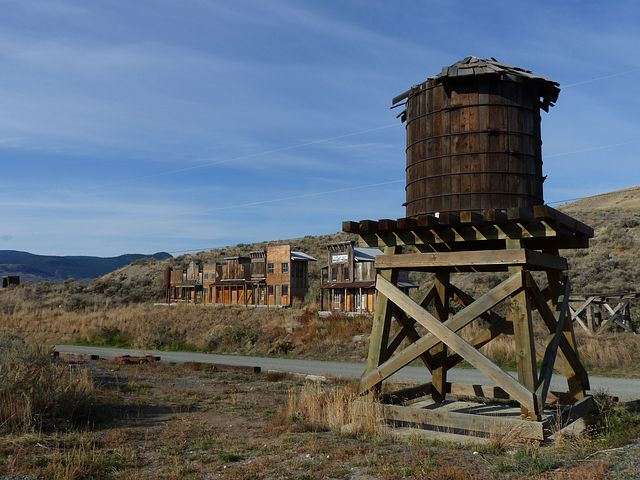
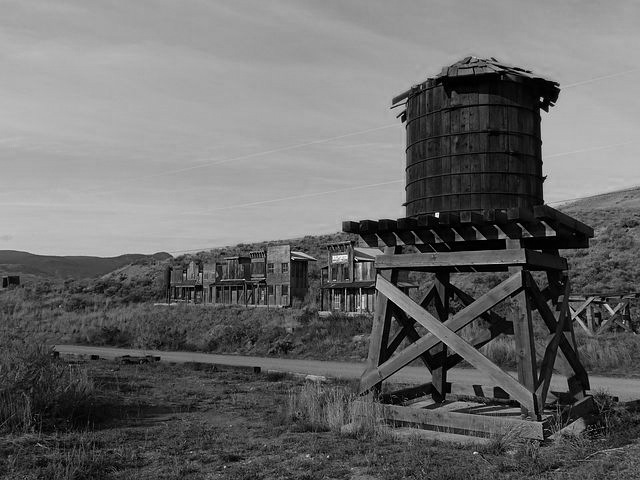
finished Desktop Navigation

diff --git a/src/navbar/NavBar.jsx b/src/navbar/NavBar.jsx
@@ -5,29 +5,57 @@ import { Link } from "react-router-dom";
 import styled from 'styled-components'
 
 const NavBarMainDiv = styled.div `
-    background-color: purple;
     position: fixed;
     top: 1%;
     right: 1%;
-    width: 400px;
-    height: 100px;
+    width: 50vw;
+    border-top: .5vw solid white;
+    border-bottom: .5vw solid white;
+    padding: 1vw 0;
+    font-size: 2vw;
+    font-family: 'Indie Flower', cursive;
+    text-align: center;
+    
+          
+    a,
+    a:link,
+    a:visited,
+    a:hover,
+    a:active {
+        color: white;
+        text-decoration: none;
+        font-weight: bold;
+    }
 
+    
+    .cell {
+      width: 50%;
+      padding: 1vw;
+    }
 `
 
 export default class NavBar extends Component {
   render() {
     return (
       <NavBarMainDiv>
-        <div>
-          <ul>
-            <li>
+    
+          
+            <span className="cell">
               <Link to="/">Home</Link>
-            </li>
-            <li>
-              <Link to="/contactform">Contact Form</Link>
-            </li>
-          </ul>
-        </div>
+            </span>
+            <span className="cell">
+              <Link to="/contactform">Booking</Link>
+            </span>
+            <span className="cell">
+              <Link to="/contactform">Band Bio</Link>
+            </span>
+            <span className="cell">
+              <Link to="/contactform">Band Demos</Link>
+            </span>
+            <span className="cell">
+              <Link to="/contactform">Press</Link>
+            </span>
+        
       </NavBarMainDiv>
     )
   }

diff --git a/src/login/Login.jsx b/src/login/Login.jsx
@@ -20,11 +20,9 @@ const fakeAuth = {
 
 const AuthButtonP = styled.p `
     background-color: yellow;
-    width: 200px;
-    height: 60px;
     position: fixed;
-    top: 5%;
-    right: 5%;
+    top: 0;
+    left: 1%;
     z-index: 9999;
 `
 
@@ -32,7 +30,7 @@ export const AuthButton = withRouter(
   ({ history }) =>
     fakeAuth.isAuthenticated ? (
       <AuthButtonP>
-        Welcome!{" "}
+        Welcome!{" J"}
         <button
           onClick={() => {
             fakeAuth.signout(() => history.push("/"));
@@ -42,7 +40,13 @@ export const AuthButton = withRouter(
         </button>
       </AuthButtonP>
     ) : (
-      <AuthButtonP>You are not logged in.</AuthButtonP>
+      <AuthButtonP>You are not logged in.<button
+      onClick={() => {
+        fakeAuth.authenticate(() => history.push("/"));
+      }}
+    >
+      Login
+    </button></AuthButtonP>
     )
 );
 

diff --git a/public/index.html b/public/index.html
@@ -10,6 +10,8 @@
     -->
     <link rel="manifest" href="%PUBLIC_URL%/manifest.json">
     <link rel="shortcut icon" href="%PUBLIC_URL%/favicon.ico">
+    <link href="https://fonts.googleapis.com/css?family=Indie+Flower" rel="stylesheet">
+
     <!--
       Notice the use of %PUBLIC_URL% in the tags above.
       It will be replaced with the URL of the `public` folder during the build.
@@ -19,7 +21,7 @@
       work correctly both with client-side routing and a non-root public URL.
       Learn how to configure a non-root public URL by running `npm run build`.
     -->
-    <title>React App</title>
+    <title>Cowboy Drive - Americana Vocal Duo</title>
   </head>
   <body>
     <noscript>

diff --git a/src/App.js b/src/App.js
@@ -10,16 +10,7 @@ import Main from './routes/Main'
 // Styled Components
 
 const AppMainDiv = styled.div `
-  .navBar {
-    grid-area: navBar;
-    background-color: red;
-  }
-
-  .main {
-    grid-area: main;
-    background-color: yellow;
-    z-index: 1;
-  }
+  
 
       
 `

diff --git a/src/pages/home/LandingPage.jsx b/src/pages/home/LandingPage.jsx
@@ -1,7 +1,7 @@
 import React, { Component } from 'react'
 import styled from 'styled-components';
 
-import img from '../../assets/oldWestStreet.jpg'
+import img from '../../assets/waterTower.png'
 
 const LandingPageDiv = styled.div `
     min-height: 100vh;
